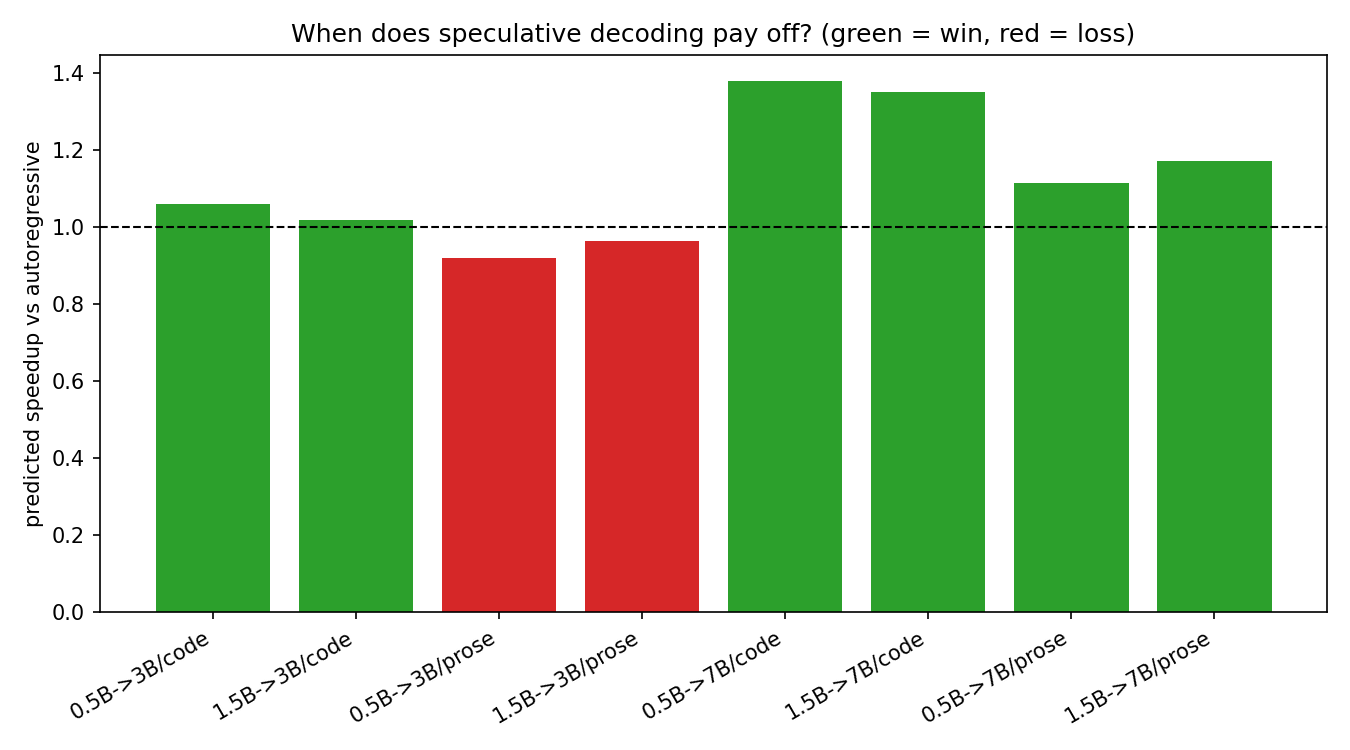
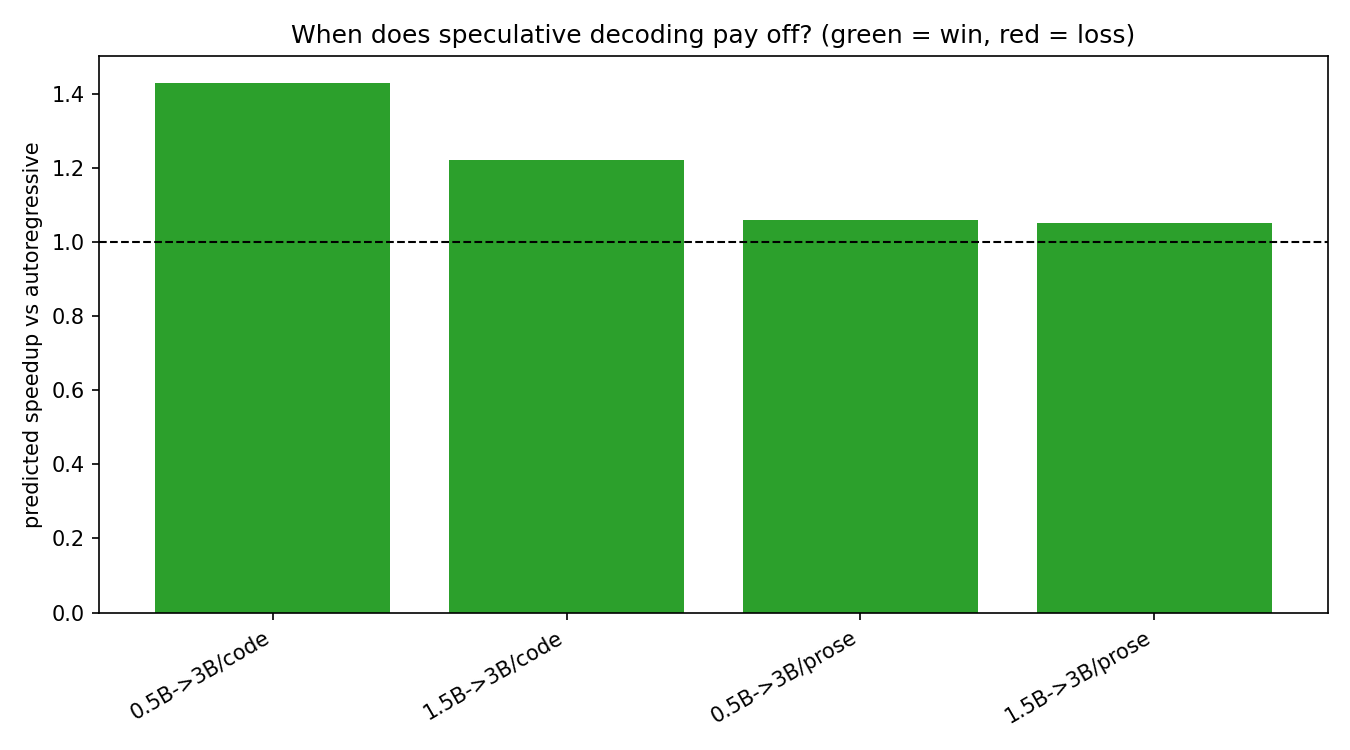
Fold in real GPU (T4) + benchmark results; extend serving batch sweep
T4/HumanEval runs reproduce greedy speedup (γ=3, 1.20x for 3B), distribution-
correct sampling (TV below noise floor), cross-family loss (0.81x). Serving probe
extended to batch 256 (+OOM guard) to actually reach the compute-bound rolloff.
MPS 7B headline preserved as fig2_mps_7B.png.

diff --git a/scripts/07_serving.py b/scripts/07_serving.py
@@ -21,7 +21,10 @@ from specdec import measure, theory
 draft  = sys.argv[1] if len(sys.argv) > 1 else "1.5B"
 target = sys.argv[2] if len(sys.argv) > 2 else "7B"
 GAMMA = 3
-BATCHES = [1, 2, 4, 8, 16]
+# go high enough to drive the GPU compute-bound: the verify pass moves B*(gamma+1)
+# tokens, and the memory->compute transition is around ~200 tokens/pass, so the
+# rolloff only appears once batch * (gamma+1) clears that.
+BATCHES = [1, 2, 4, 8, 16, 32, 64, 128, 256]
 
 M = json.load(open("data/measurements.json"))
 alpha = M["alpha"][f"{draft}->{target}/code"]
@@ -33,10 +36,16 @@ print(f"draft={draft} target={target} gamma={GAMMA} alpha={alpha:.3f} E={E:.2f} 
 print(f"{'B':>3} | {'T_tgt(1)':>9} | {'T_tgt(g+1)':>11} | {'verify x':>8} | "
       f"{'T_drf(1)':>9} | {'speedup':>7}")
 print("-" * 60)
+import torch
 for B in BATCHES:
-    t1 = measure.forward_latency(target, batch=B, chunk=1)
-    tg = measure.forward_latency(target, batch=B, chunk=GAMMA + 1)
-    td = measure.forward_latency(draft, batch=B, chunk=1)
+    try:
+        t1 = measure.forward_latency(target, batch=B, chunk=1)
+        tg = measure.forward_latency(target, batch=B, chunk=GAMMA + 1)
+        td = measure.forward_latency(draft, batch=B, chunk=1)
+    except RuntimeError as e:                 # out of memory at large batch -> stop
+        if torch.cuda.is_available(): torch.cuda.empty_cache()
+        print(f"{B:>3} | out of memory ({str(e)[:40]}...) -- stopping batch sweep")
+        break
     verify_factor = tg / t1
     speedup = E * t1 / (GAMMA * td + tg)
     out["by_batch"][B] = {"t_target_1": t1, "t_target_g": tg, "t_draft_1": td,
@@ -45,7 +54,7 @@ for B in BATCHES:
           f"{td*1000:8.1f} | {speedup:6.2f}x")
 
 # crossover: first batch where speedup drops below 1
-below = [B for B in BATCHES if out["by_batch"][B]["speedup"] < 1.0]
+below = [B for B in out["by_batch"] if out["by_batch"][B]["speedup"] < 1.0]
 out["crossover_batch"] = below[0] if below else None
 print(f"\ncrossover (speedup<1) at batch: {out['crossover_batch']}")
 